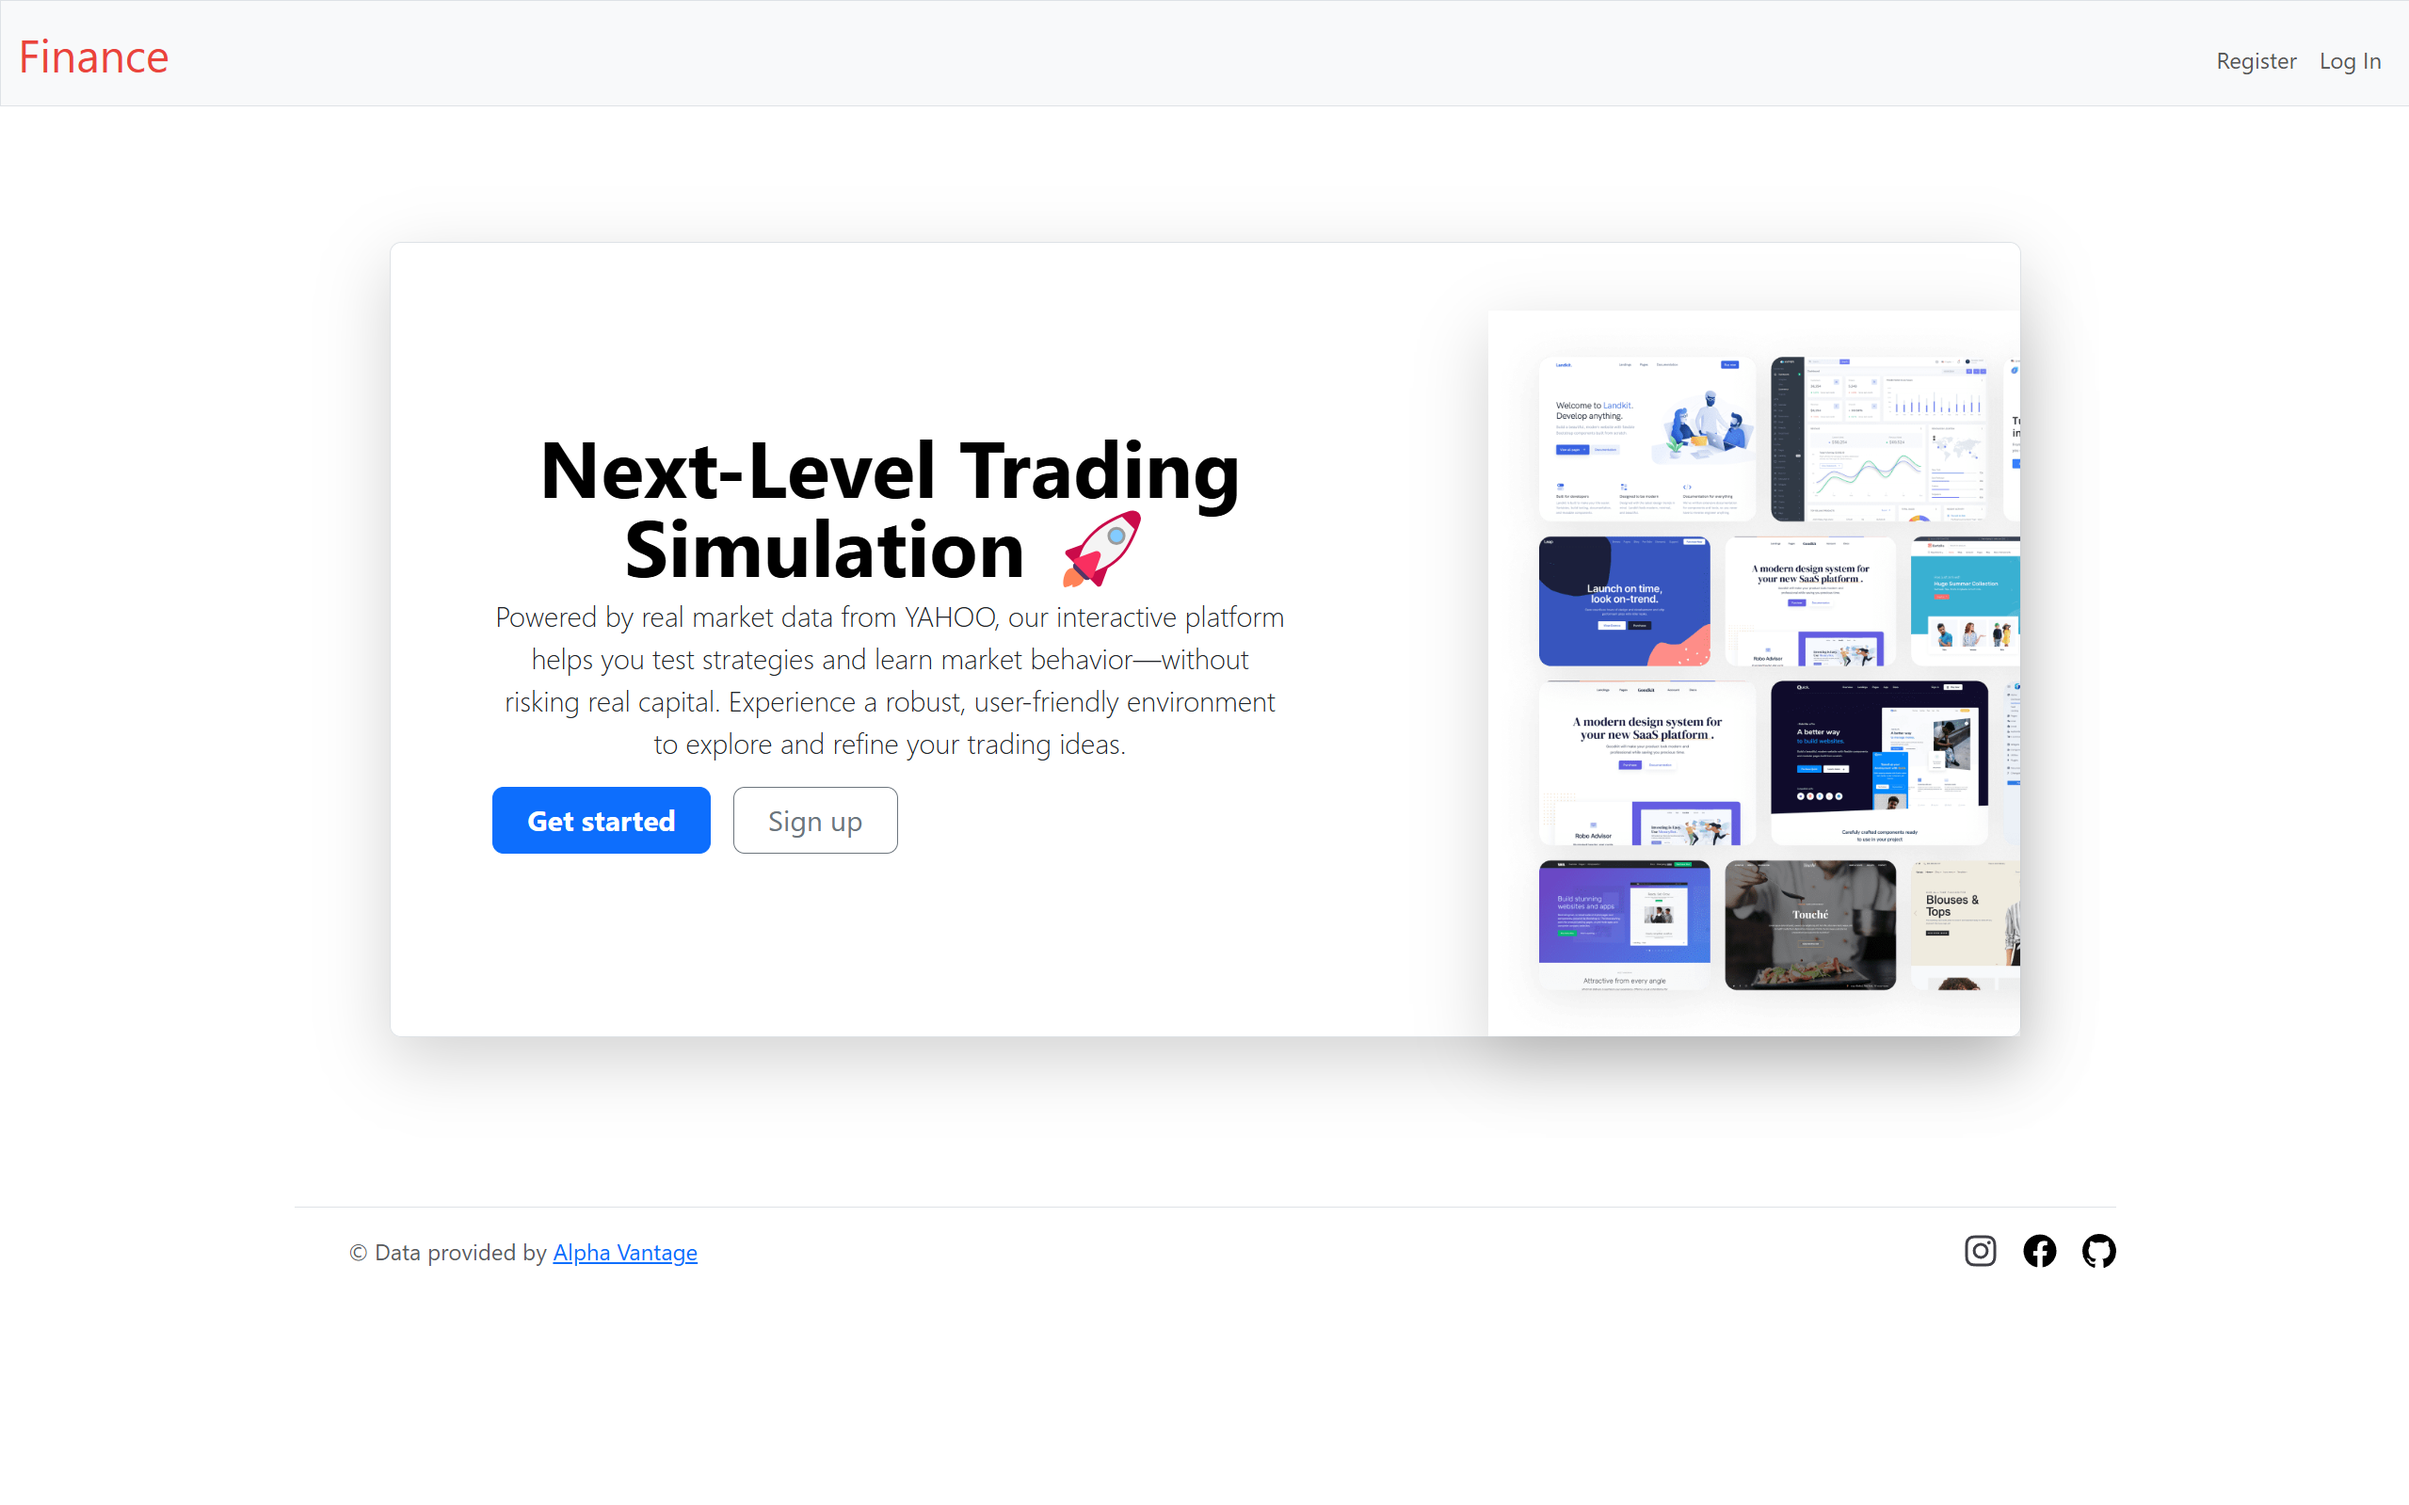
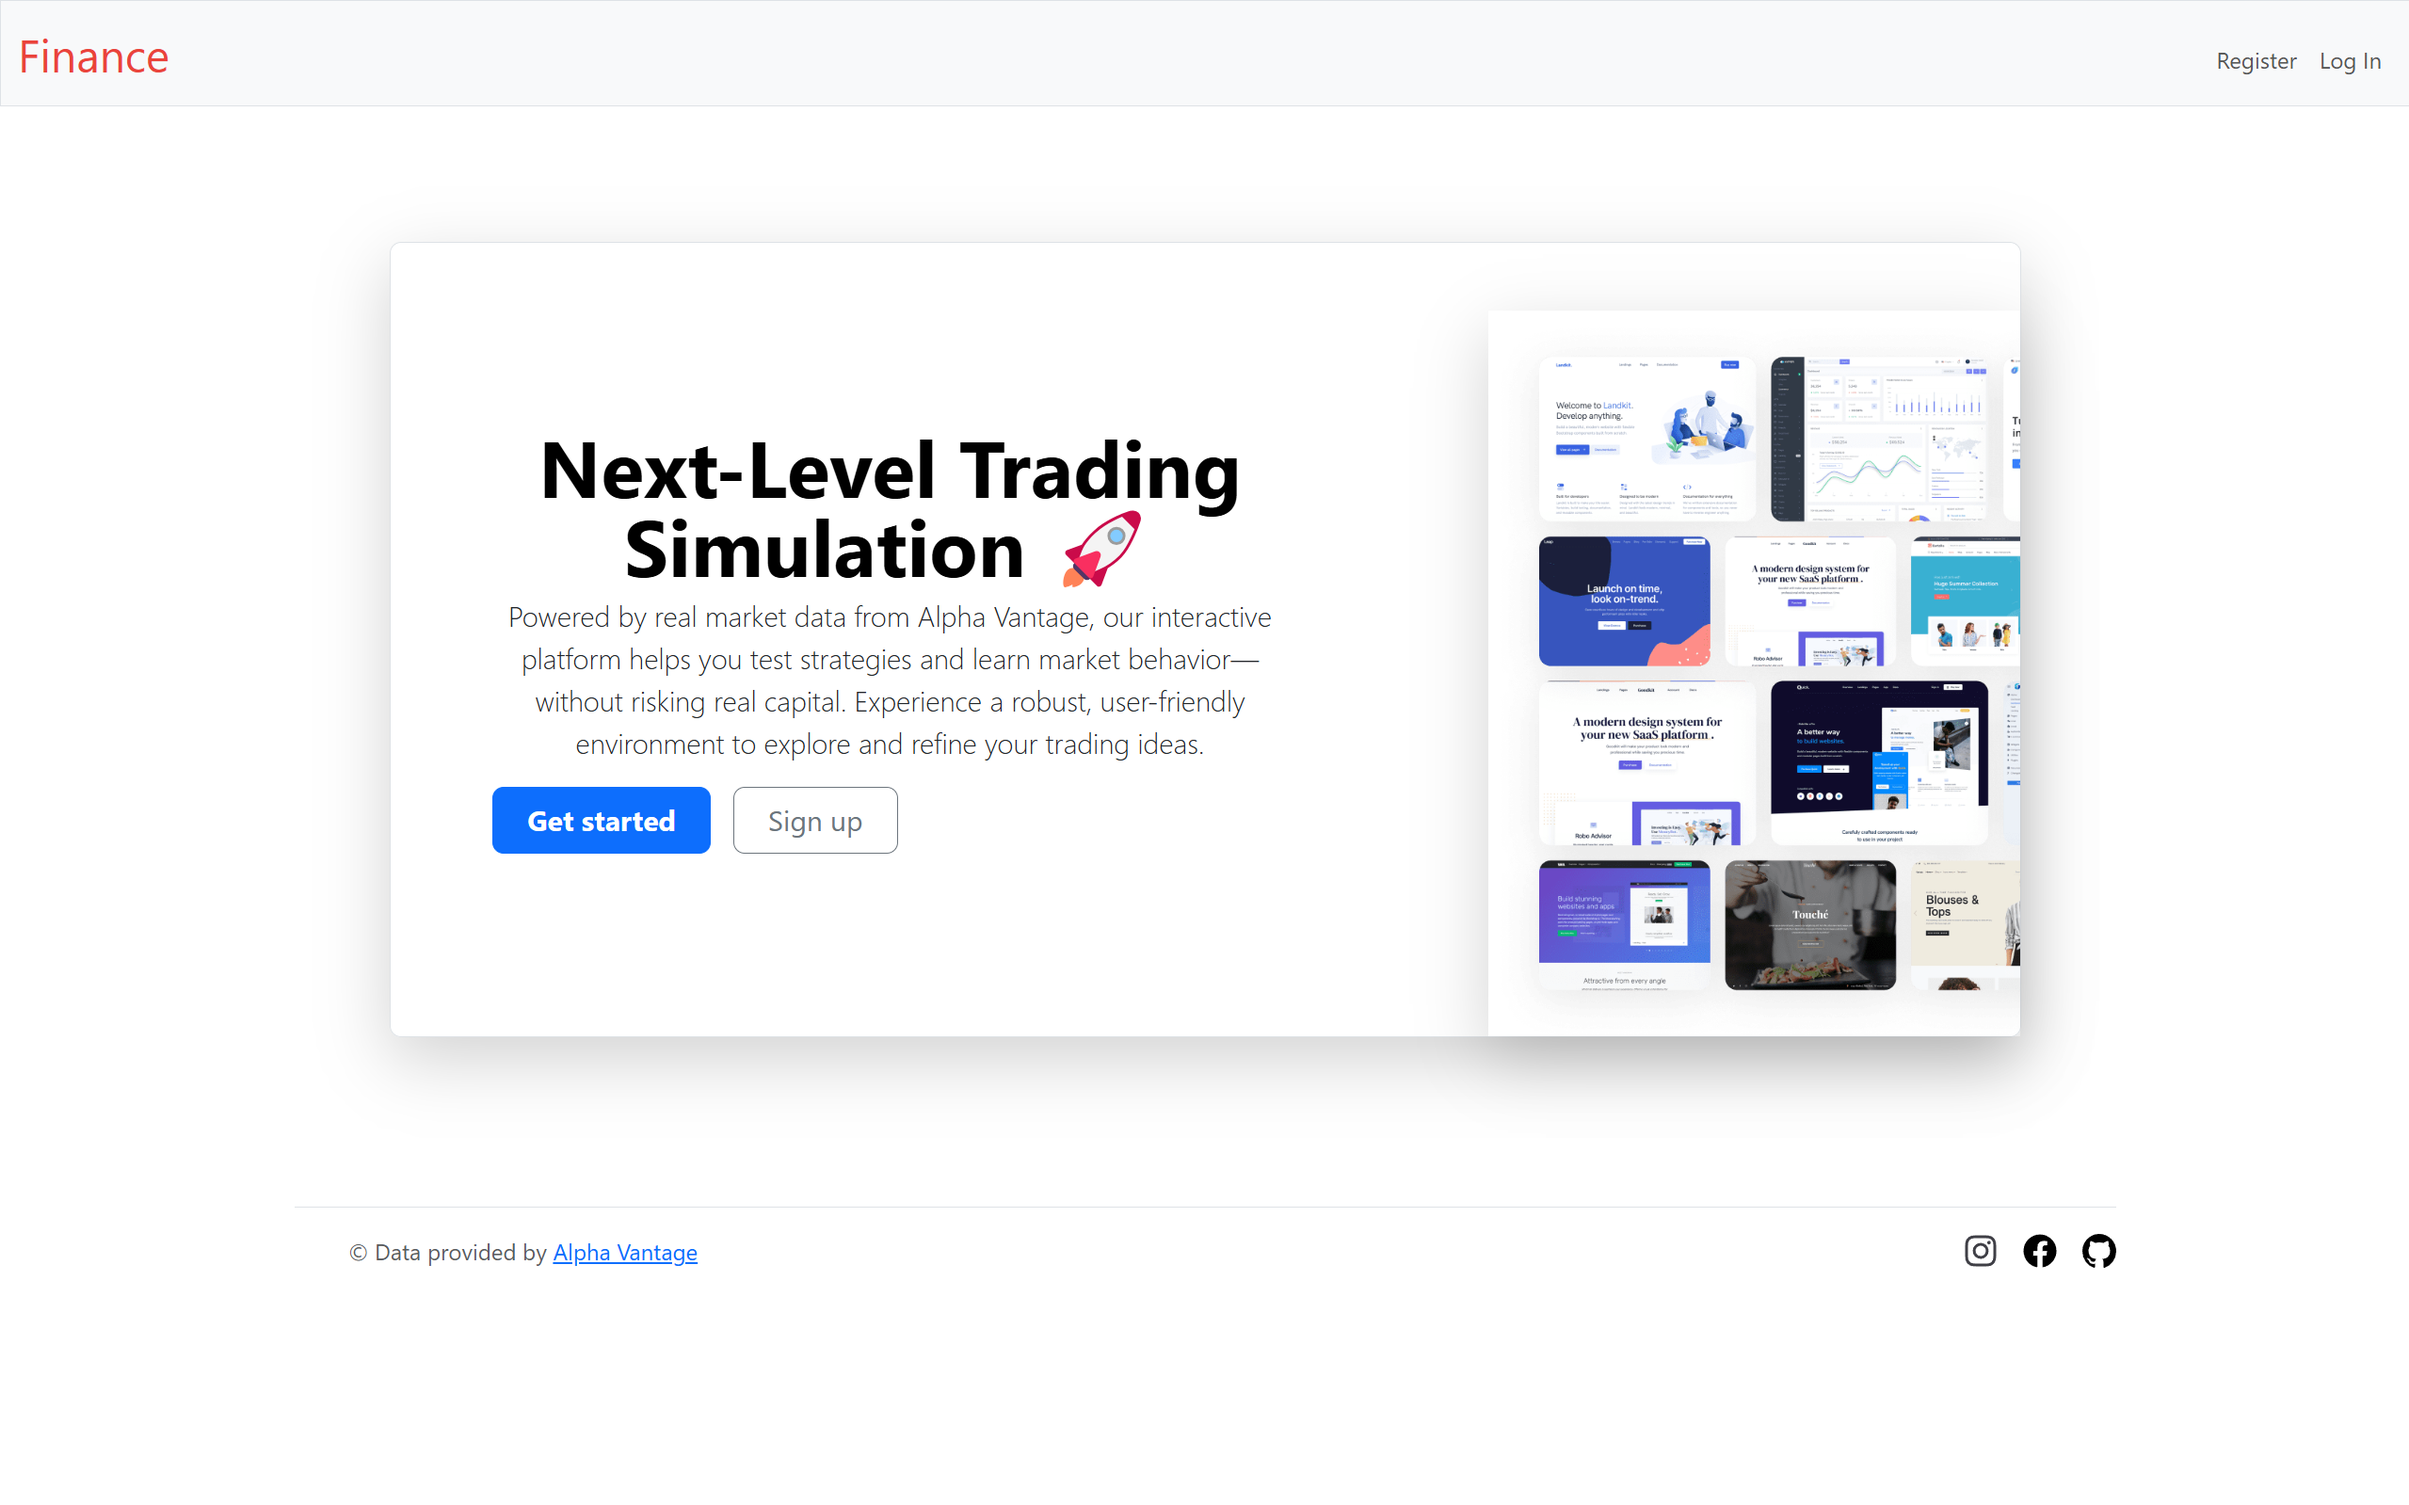
Fix minor format

Changed region(s): [[0.2161, 0.3984, 0.5248, 0.521]]

diff --git a/templates/public/index.html b/templates/public/index.html
@@ -12,7 +12,7 @@
         <div class="row p-4 pb-0 pe-lg-0 pt-lg-5 align-items-center rounded-3 border shadow-lg">
         <div class="col-lg-7 p-3 p-lg-5 pt-lg-3">
             <h1 class="display-4 fw-bold lh-1 text-body-emphasis">Next-Level Trading Simulation 🚀</h1>
-            <p class="lead">Powered by real market data from YAHOO, our interactive platform helps you test strategies and learn market behavior—without risking real capital. Experience a robust, user-friendly environment to explore and refine your trading ideas.</p>
+            <p class="lead">Powered by real market data from Alpha Vantage, our interactive platform helps you test strategies and learn market behavior—without risking real capital. Experience a robust, user-friendly environment to explore and refine your trading ideas.</p>
             <div class="d-grid gap-2 d-md-flex justify-content-md-start mb-4 mb-lg-3">
             <a href="/login" class="btn btn-primary btn-lg px-4 me-md-2 fw-bold">Get started</a>
             <a href="/register" class="btn btn-outline-secondary btn-lg px-4">Sign up</a>
